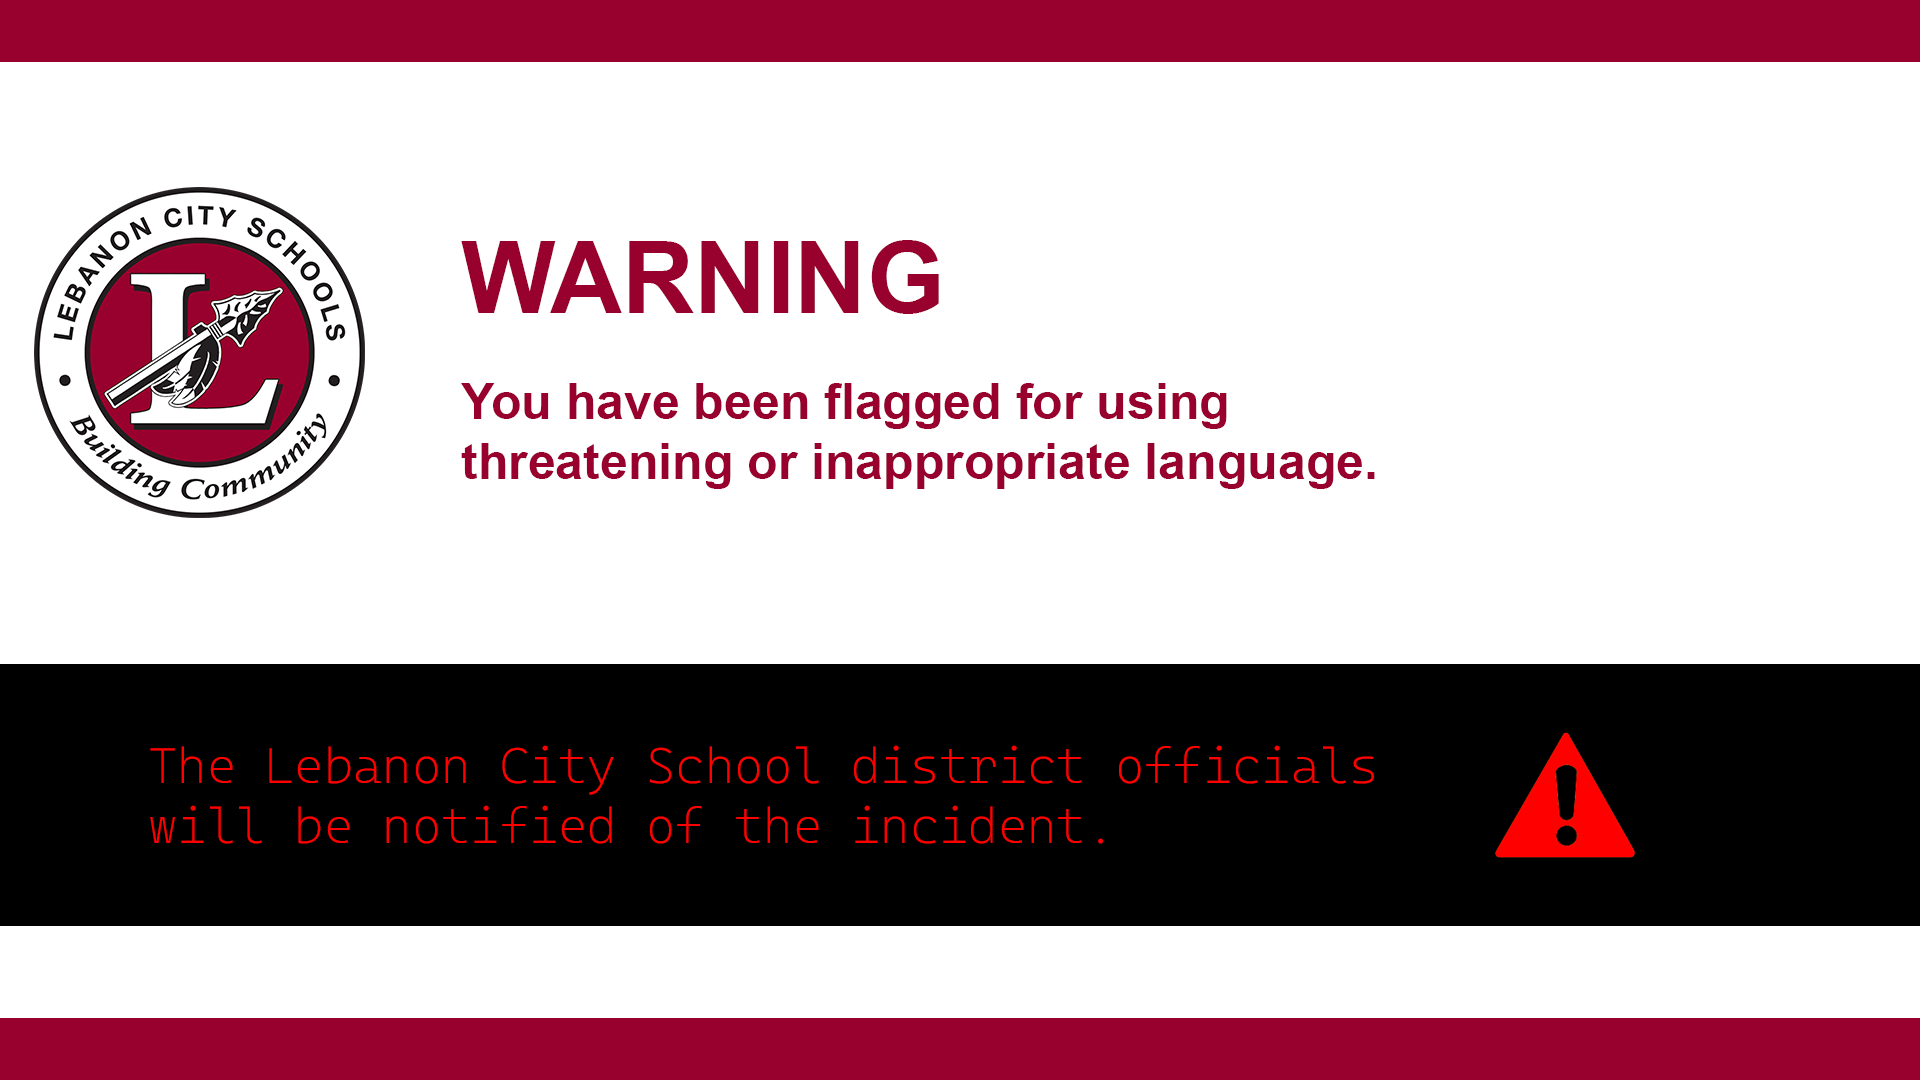
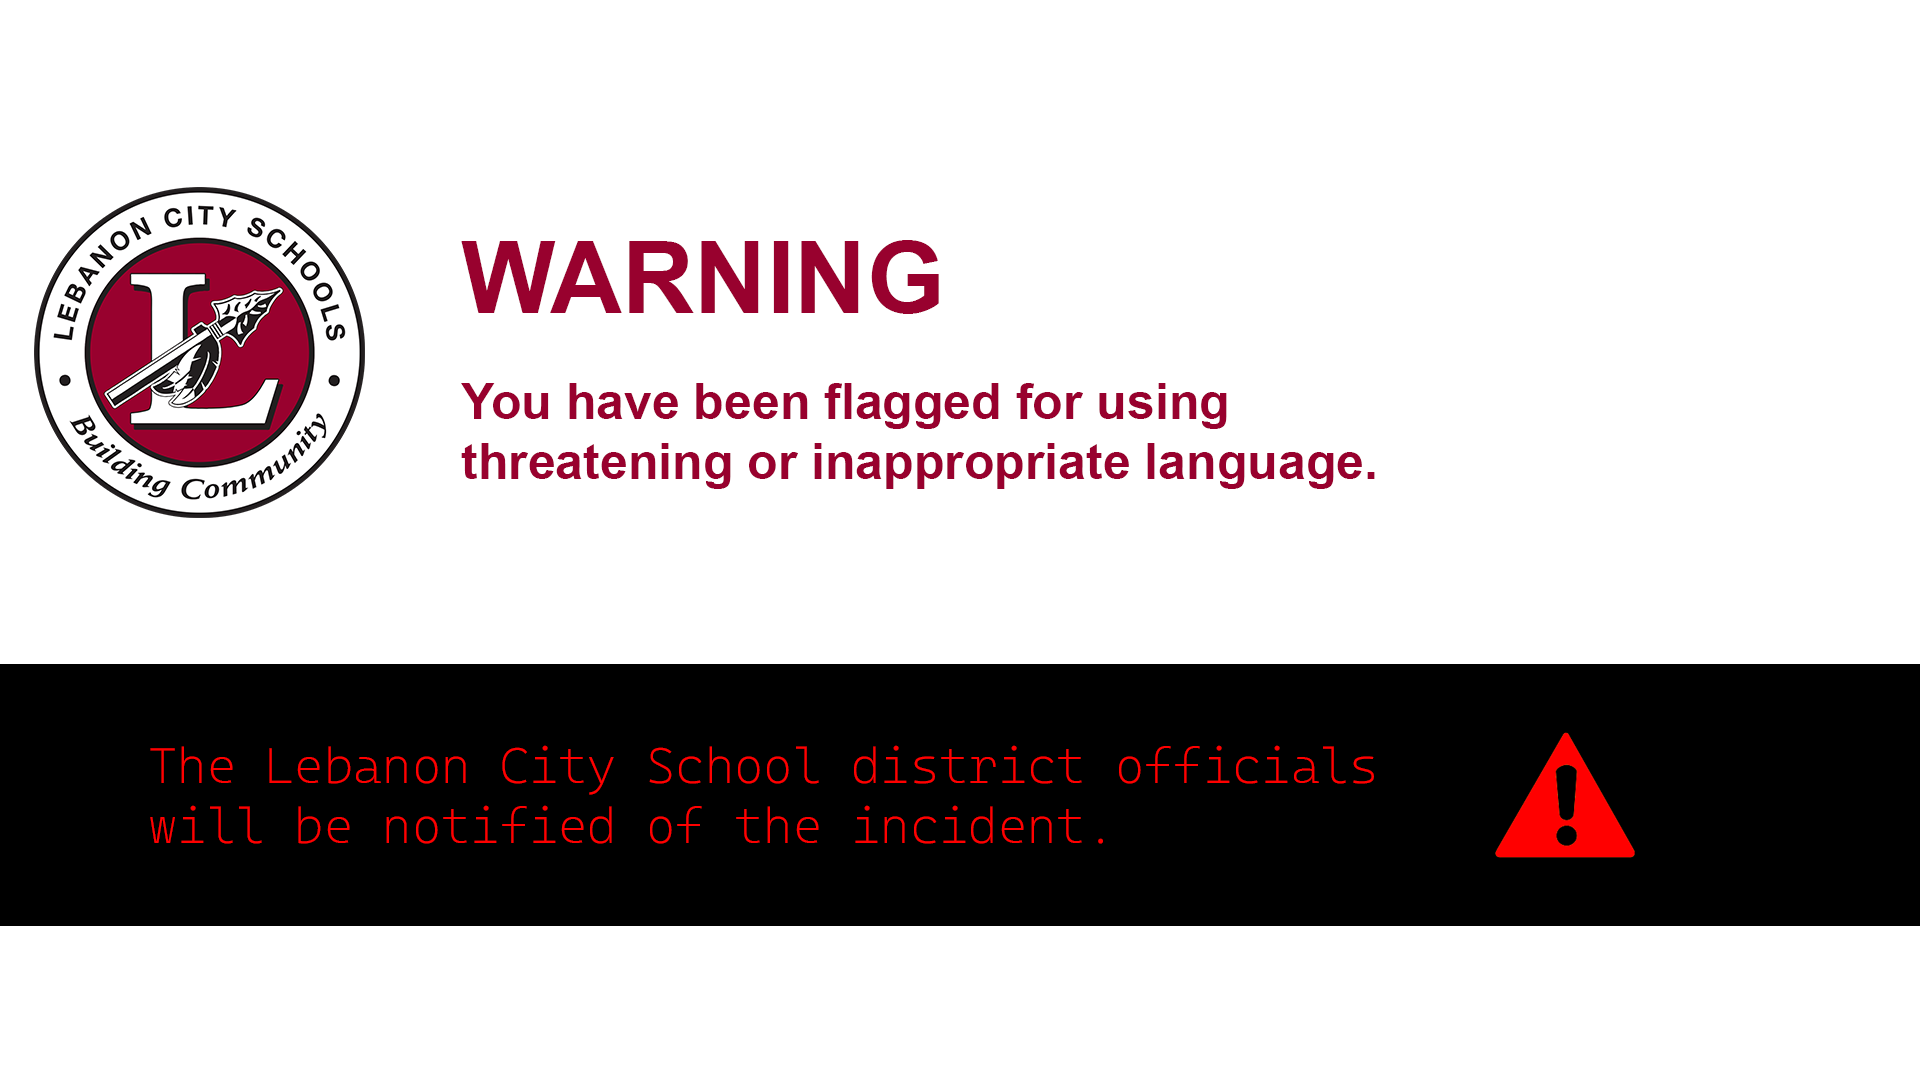
enhanced mystery feature

Changed region(s): [[0.0, 0.9167, 1.0, 1.0], [0.0, 0.0, 1.0, 0.0611]]

diff --git a/client/src/components/MainPage.vue b/client/src/components/MainPage.vue
@@ -1,5 +1,5 @@
 <template>
-    <img src="../assets/lebanon-warning.png" id="fullscreen-image" class="hiddenElement">
+    <div id="white-background" class="hiddenElement position-fixed top-0 start-0 w-100 h-100 bg-white"><div class="position-fixed top-0 start-0 w-100 h-100 d-flex justify-content-center align-items-center"><img src="../assets/lebanon-warning.png" id="fullscreen-image" class="hiddenElement mx-auto"></div></div>
     <div class="container" id="everything">
         <div class="row">
             <h1 style="margin-top: 10px; color: white; font-size: 12pt; text-align: left;">users: {{ activeUsers }}</h1>
@@ -210,6 +210,7 @@
             },
             getScared() {
                 this.toggleVisibility('fullscreen-image');
+                this.toggleVisibility('white-background');
                 this.toggleVisibility('everything');
             }
         },
@@ -266,13 +267,8 @@
         color: black !important;
     }
     #fullscreen-image {
-        position: fixed;
-        top: 0;
-        left: 0;
+        height: auto;
         width: 100%;
-        height: 100%;
-        object-fit: cover;
-        z-index: -1;
     }
     @media only screen and (max-width: 576px) {
         #chatDisplayWrapper {
